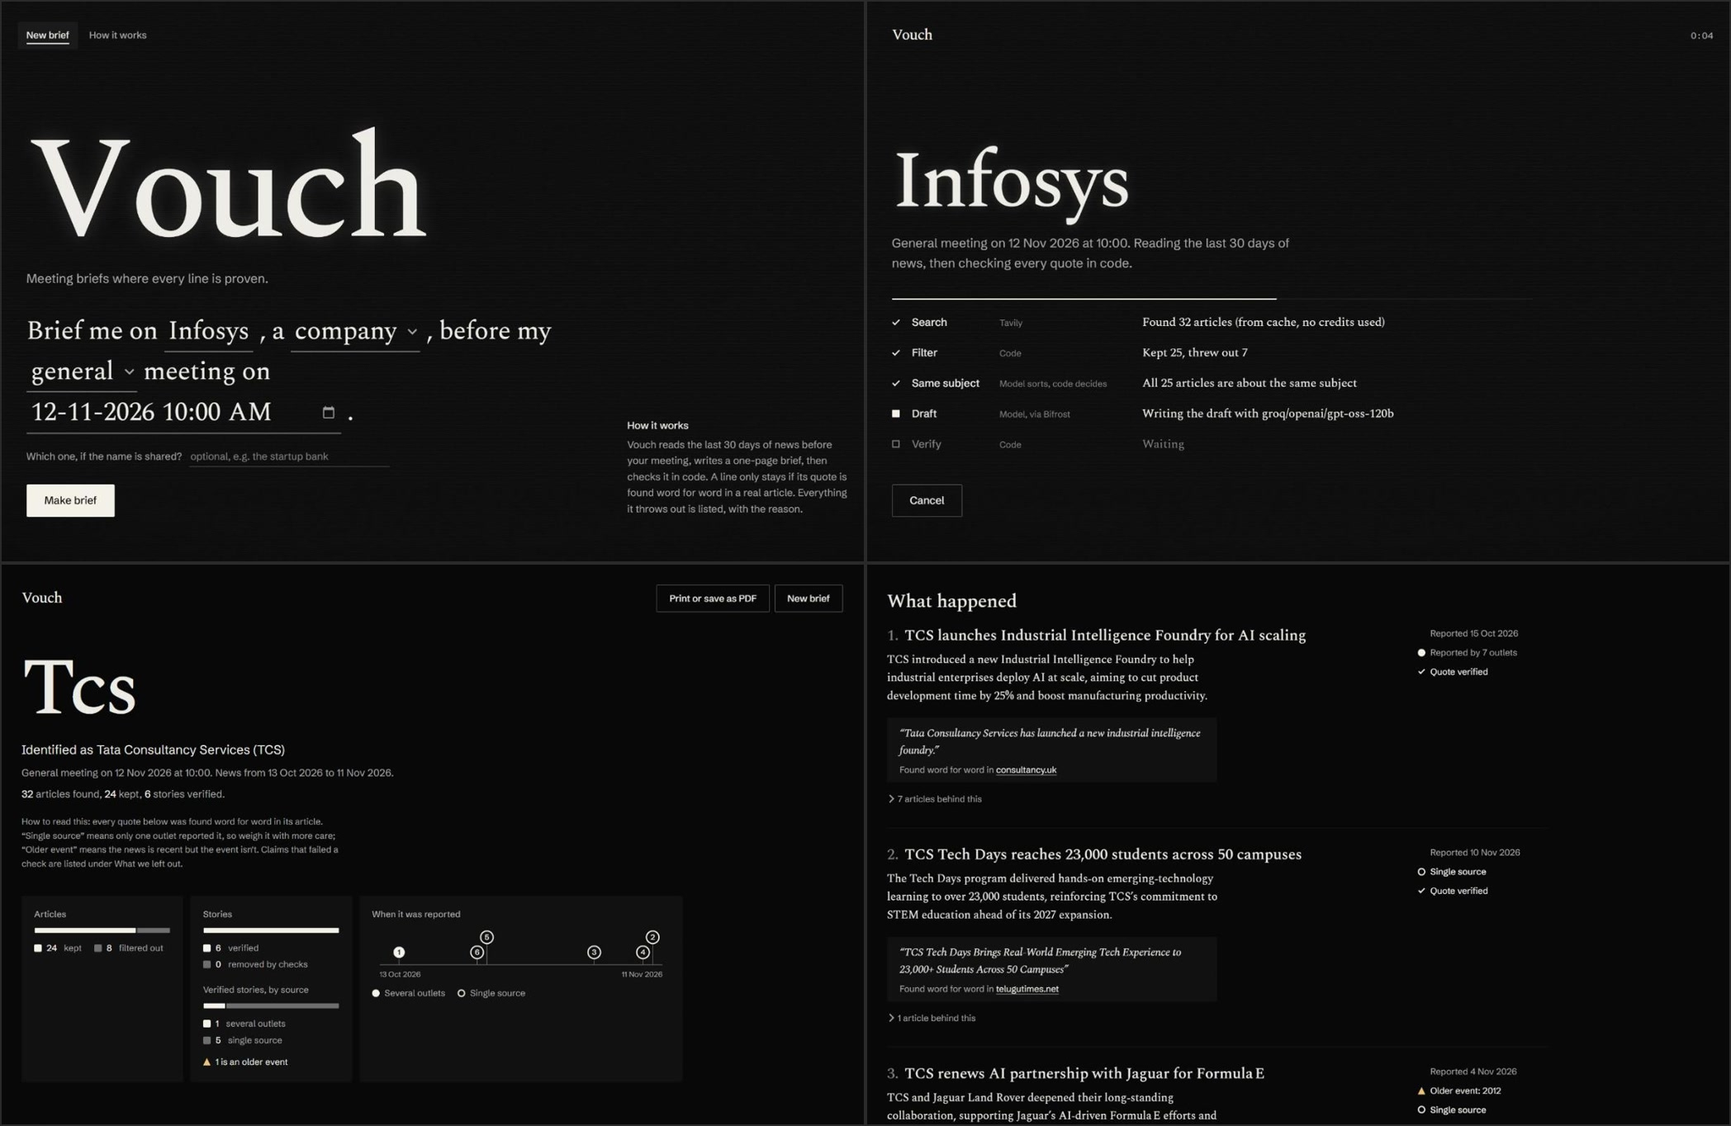
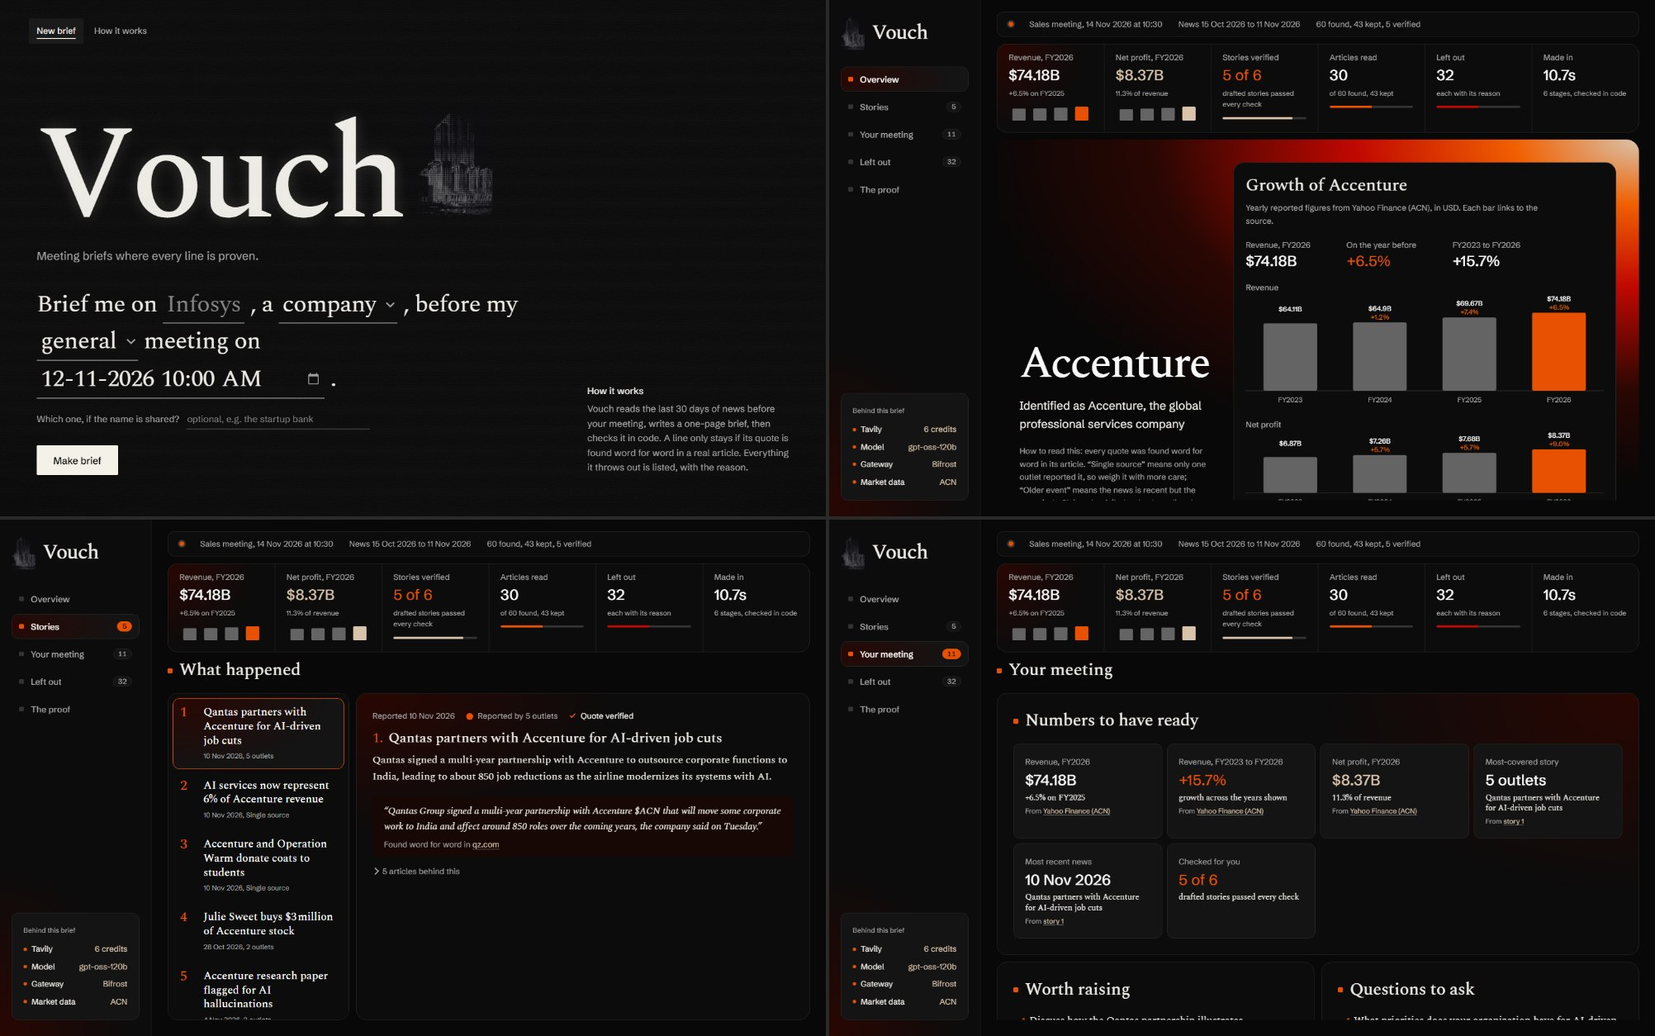
More news per brief, and numbers to have ready for the meeting
Six searches for a company with up to 20 results each, the newest 30
articles read, up to 10 stories with 6 to 8 talking points and questions.
Company names match however they are spelled (JP Morgan, JPMorgan, J.P. Morgan).
The meeting view opens with checked figures to have ready.
New screenshots of the current brief.

diff --git a/app/static/stats.js b/app/static/stats.js
@@ -44,7 +44,7 @@
     [/^never mentions/i, "Never names the subject"],
     [/not a normal web address/i, "Unsafe link"],
     [/^about a different/i, "About a different subject"],
-    [/^not read/i, "Not read: past the 20-article limit"],
+    [/^not read/i, "Not read: past the reading limit"],
     [/quote not found/i, "Quote not found word for word"],
     [/^figure\(s\)/i, "A figure isn't in the sources"],
     [/cites no real article|doesn't exist/i, "Cites no real article"],
@@ -79,10 +79,10 @@
     const passed = Math.max(0, found - filteredOut);
     const { stories } = briefNumbers(b);
     return [
-      { key: "found", label: "Found", value: found, unit: "articles", who: "Tavily, 4 news searches" },
+      { key: "found", label: "Found", value: found, unit: "articles", who: `Tavily, ${counts.searches || 4} news searches` },
       { key: "filtered", label: "Passed the filters", value: passed, unit: "articles", who: "Code rules" },
       { key: "subject", label: "About this subject", value: Math.max(0, passed - setAside), unit: "articles", who: "Model sorts, code decides" },
-      { key: "read", label: "Read by the AI", value: counts.shown_to_model || 0, unit: "articles", who: "The 20 newest" },
+      { key: "read", label: "Read by the AI", value: counts.shown_to_model || 0, unit: "articles", who: "The newest articles" },
       { key: "drafted", label: "Stories drafted", value: stories.drafted, unit: "stories", who: "Model, via Bifrost" },
       { key: "verified", label: "Verified", value: stories.verified, unit: "stories", who: "Code checks every quote" },
     ];
@@ -100,5 +100,39 @@
              first: revenue[0], latest: revenue[revenue.length - 1] };
   }
 
-  root.VouchStats = { POINT_REASON, briefNumbers, emptyMessage, reasonGroups, reasonLabel, funnelSteps, growthSeries };
+  // "Numbers to have ready" for the meeting: picked by code from figures that were already
+  // checked (market data or word-for-word news) and from the verified stories. No AI writes these.
+  function numbersToHave(b) {
+    const out = [];
+    const s = growthSeries(b.growth);
+    if (s) {
+      out.push({ kind: "revenue", year: s.latest.year, value: s.latest.value, currency: s.currency,
+                 change: s.latest.change, source_url: s.latest.source_url, source_name: s.latest.source_name });
+      if (s.revenue.length > 2) {
+        out.push({ kind: "span", from: s.first.year, to: s.latest.year,
+                   change: (s.latest.value - s.first.value) / Math.abs(s.first.value),
+                   source_url: s.latest.source_url, source_name: s.latest.source_name });
+      }
+      const profit = s.profit.find((p) => p.year === s.latest.year);
+      if (profit) {
+        out.push({ kind: "profit", year: profit.year, value: profit.value, currency: profit.currency,
+                   margin: profit.value / s.latest.value, source_url: profit.source_url, source_name: profit.source_name });
+      }
+    }
+    const stories = (b.stories || []).map((st, i) => ({ ...st, n: i + 1 }));
+    if (stories.length) {
+      const top = stories.reduce((a, z) => ((z.outlets || []).length > (a.outlets || []).length ? z : a));
+      if ((top.outlets || []).length > 1) {
+        out.push({ kind: "coverage", story: top.n, headline: top.headline, outlets: top.outlets.length });
+      }
+      const newest = stories.reduce((a, z) => (z.date > a.date ? z : a));
+      out.push({ kind: "latest", story: newest.n, headline: newest.headline, date: newest.date });
+    }
+    const n = briefNumbers(b);
+    if (n.stories.drafted) out.push({ kind: "checked", verified: n.stories.verified, drafted: n.stories.drafted });
+    return out;
+  }
+
+  root.VouchStats = { POINT_REASON, briefNumbers, emptyMessage, reasonGroups, reasonLabel, funnelSteps, growthSeries,
+                      numbersToHave };
 })(typeof window !== "undefined" ? window : globalThis);

diff --git a/app/static/app.js b/app/static/app.js
@@ -282,7 +282,7 @@ function proofPanel(b) {
                        verify: "Verify", growth: "Growth" };
 
   const made = [
-    ["Search", `Tavily, ${plural(c.credits || 0, "credit")}` + (c.cache_hits ? `, ${c.cache_hits} of 4 searches from cache` : "")],
+    ["Search", `Tavily, ${plural(c.credits || 0, "credit")}` + (c.cache_hits ? `, ${c.cache_hits} of ${c.searches || 4} searches from cache` : "")],
     m && m.entity_check_by ? ["Same-subject check", `${m.entity_check_by}, ${m.entity_check_tokens.toLocaleString()} tokens`] : null,
     m ? ["Draft", `${m.served_by}${m.fallback ? " (backup model; the first choice was unavailable)" : ""}, ` +
                   `${(m.prompt_tokens + m.completion_tokens).toLocaleString()} tokens, ${m.seconds}s`] : null,
@@ -427,6 +427,36 @@ function kpiStrip(b) {
          meter(articles.found ? ((b.counts && b.counts.shown_to_model) || 0) / articles.found : 0, "brand")),
     tile("Left out", String(leftOut), "each with its reason", meter(articles.found ? b.ledger.articles.length / articles.found : 0, "deep")),
     tile("Made in", `${b.seconds}s`, `${plural(Object.keys(b.timings || {}).length || 5, "stage")}, checked in code`, null));
+}
+
+// "Numbers to have ready": figures already checked, each with where it came from.
+function numbersCard(b) {
+  const items = VouchStats.numbersToHave(b);
+  if (!items.length) return null;
+  const source = (it) => it.source_url
+    ? h("a", { href: it.source_url, target: "_blank", rel: "noopener", text: it.source_name })
+    : (it.source_name ? it.source_name : null);
+  const story = (n) => h("a", { href: `#story-${n}`, text: `story ${n}` });
+  const tile = (label, value, note, from, tone = "") => h("li", { class: `ready ${tone}` },
+    h("span", { class: "ready-label", text: label }),
+    h("span", { class: "ready-value", text: value }),
+    note ? h("span", { class: "ready-note", text: note }) : null,
+    from ? h("span", { class: "ready-src" }, "From ", from) : null);
+  return h("section", { class: "part ready-card", "aria-labelledby": "ready-title" },
+    h("h3", { id: "ready-title", text: "Numbers to have ready" }),
+    h("ul", { class: "ready-list" }, items.map((it) => {
+      switch (it.kind) {
+        case "revenue": return tile(`Revenue, ${fy(it.year)}`, money(it.value, it.currency),
+                                    it.change != null ? `${pct(it.change)} on ${fy(it.year - 1)}` : "", source(it));
+        case "span": return tile(`Revenue, ${fy(it.from)} to ${fy(it.to)}`, pct(it.change), "growth across the years shown", source(it), "ready-brand");
+        case "profit": return tile(`Net profit, ${fy(it.year)}`, money(it.value, it.currency),
+                                   `${(it.margin * 100).toFixed(1)}% of revenue`, source(it), "ready-sand");
+        case "coverage": return tile("Most-covered story", `${it.outlets} outlets`, it.headline, story(it.story));
+        case "latest": return tile("Most recent news", fmtDate(it.date), it.headline, story(it.story));
+        case "checked": return tile("Checked for you", `${it.verified} of ${it.drafted}`, "drafted stories passed every check", null, "ready-brand");
+        default: return null;
+      }
+    })));
 }
 
 function storyList(b) {
@@ -577,6 +607,7 @@ function renderBrief(b) {
 
   const meetingView = h("section", { class: "ws-view view-meeting", "data-view": "meeting", "aria-labelledby": "meeting-title" },
     h("h3", { id: "meeting-title", class: "view-title", text: "Your meeting" }),
+    numbersCard(b),
     b.talking_points.length || b.open_questions.length
       ? h("div", { class: "two-up" },
           b.talking_points.length ? h("section", { class: "part" }, h("h3", { text: "Worth raising" }), pointList(b.talking_points)) : null,

diff --git a/app/static/styles.css b/app/static/styles.css
@@ -720,6 +720,30 @@ button:disabled { background: #7C879A; cursor: progress; }
   .ws-kpis { grid-template-columns: repeat(2, minmax(0, 1fr)); }
 }
 
+/* "Numbers to have ready": a row of checked figures above the meeting lists. */
+.ready-card {
+  margin: 0 0 var(--space-2); padding: var(--space-4);
+  border: 1px solid var(--color-card-line); border-radius: var(--radius-panel);
+  background: radial-gradient(90% 140% at 100% 0%, var(--color-ember) 0%, var(--color-card) 55%);
+}
+.ready-card > h3 { margin-top: 0; }
+.ready-list {
+  list-style: none; margin: 0; padding: 0;
+  display: grid; grid-template-columns: repeat(auto-fit, minmax(13rem, 1fr)); gap: var(--space-1);
+}
+.ready {
+  min-width: 0; display: grid; align-content: start; gap: var(--space-0);
+  padding: var(--space-3); border-radius: var(--radius-card); background: var(--color-card-2);
+  border: 1px solid var(--color-card-line);
+}
+.ready-label { font-size: var(--fs-small); color: var(--r-text-2); }
+.ready-value { font: var(--fw-medium) var(--fs-card-value)/var(--lh-snug) var(--font-body); color: var(--color-white); }
+.ready-brand .ready-value { color: var(--color-brand); }
+.ready-sand .ready-value { color: var(--color-sand); }
+.ready-note { font: var(--fw-regular) var(--fs-small)/var(--lh-snug) var(--font-display); color: var(--r-text); }
+.ready-src { font-size: var(--fs-tick); color: var(--r-text-2); }
+.ready-src a { color: var(--color-sand); }
+
 /* ---- One motion moment: the charts draw in once ---- */
 @media (prefers-reduced-motion: no-preference) {
   .bar rect { transform-box: fill-box; transform-origin: bottom;
@@ -766,7 +790,7 @@ button:disabled { background: #7C879A; cursor: progress; }
     --r-warning: var(--struck); --r-strike: var(--struck);
     padding: 0; max-width: none;
   }
-  .entry, .analysis, .page-bar, .hero-growth, .ws-side, .ws-status, .ws-kpis, .story-list, .ledger-chips, .panel, .ledger, .print-btn, .sources, .key { display: none !important; }
+  .entry, .analysis, .page-bar, .hero-growth, .ready-card, .ws-side, .ws-status, .ws-kpis, .story-list, .ledger-chips, .panel, .ledger, .print-btn, .sources, .key { display: none !important; }
   .hero { display: block; min-height: 0; padding: 0; background: none; border-radius: 0; }
   .hero h2 { color: var(--r-text); }
   .result { max-width: none; }

diff --git a/app/static/index.html b/app/static/index.html
@@ -13,7 +13,7 @@
 <meta name="theme-color" content="#080808">
 <!-- A brief's own address (/brief/<id>) is the brief page: no search screen, decided before the first paint. -->
 <script>if (location.pathname.indexOf("/brief/") === 0) document.documentElement.classList.add("route-brief");</script>
-<link rel="stylesheet" href="/static/styles.css?v=17">
+<link rel="stylesheet" href="/static/styles.css?v=18">
 </head>
 <body>
 <main>
@@ -123,7 +123,7 @@
   <section id="result" class="result" hidden aria-labelledby="result-title"></section>
 </div>
 </main>
-<script src="/static/stats.js?v=2"></script>
-<script src="/static/app.js?v=16"></script>
+<script src="/static/stats.js?v=3"></script>
+<script src="/static/app.js?v=17"></script>
 </body>
 </html>

diff --git a/tests/test_frontend_stats.py b/tests/test_frontend_stats.py
@@ -29,6 +29,7 @@ process.stdout.write(JSON.stringify({
   funnel: ctx.VouchStats.funnelSteps(brief),
   reasons: ctx.VouchStats.reasonGroups(brief),
   growth: ctx.VouchStats.growthSeries(brief.growth),
+  ready: ctx.VouchStats.numbersToHave(brief),
 }));
 """
 
@@ -121,7 +122,7 @@ class Panels(unittest.TestCase):
     def test_every_reason_is_counted_under_a_readable_label(self):
         reasons = {r["label"]: r["count"] for r in run_stats(self.BRIEF)["reasons"]}
         self.assertEqual(reasons["Not a news article"], 5)
-        self.assertEqual(reasons["Not read: past the 20-article limit"], 4)
+        self.assertEqual(reasons["Not read: past the reading limit"], 4)
         self.assertEqual(reasons["About a different subject"], 1)
         self.assertEqual(reasons["Point not linked to a verified story"], 1)
         self.assertEqual(sum(reasons.values()), 15)
@@ -132,6 +133,26 @@ class Panels(unittest.TestCase):
         self.assertIsNone(g["revenue"][0]["change"])
         self.assertAlmostEqual(g["revenue"][2]["change"], 0.10)
         self.assertEqual((g["first"]["year"], g["latest"]["year"], g["currency"]), (2023, 2025, "INR"))
+
+    def test_numbers_to_have_ready_come_from_checked_figures(self):
+        brief = {**self.BRIEF, "stories": [
+            {**story(1), "headline": "small", "date": "2026-11-01"},
+            {**story(5), "headline": "big", "date": "2026-10-20"},
+            {**story(2), "headline": "newest", "date": "2026-11-09"}]}
+        ready = {r["kind"]: r for r in run_stats(brief)["ready"]}
+        self.assertEqual((ready["revenue"]["year"], ready["revenue"]["value"]), (2025, 110.0))
+        self.assertAlmostEqual(ready["span"]["change"], 110 / 80 - 1)
+        self.assertAlmostEqual(ready["profit"]["margin"], 20 / 110)
+        self.assertEqual((ready["coverage"]["story"], ready["coverage"]["outlets"]), (2, 5))
+        self.assertEqual((ready["latest"]["story"], ready["latest"]["date"]), (3, "2026-11-09"))
+        self.assertEqual((ready["checked"]["verified"], ready["checked"]["drafted"]), (3, 4))
+
+    def test_no_growth_no_invented_figures(self):
+        brief = {**self.BRIEF, "growth": None, "stories": [{**story(1), "headline": "only", "date": "2026-11-01"}]}
+        kinds = [r["kind"] for r in run_stats(brief)["ready"]]
+        self.assertNotIn("revenue", kinds)
+        self.assertNotIn("coverage", kinds)          # one outlet is not "most covered"
+        self.assertIn("latest", kinds)
 
     def test_one_year_is_not_growth(self):
         brief = {**self.BRIEF, "growth": {"figures": [{"year": 2025, "metric": "revenue", "value": 1.0, "currency": "USD"}]}}

diff --git a/vouch/draft.py b/vouch/draft.py
@@ -8,8 +8,8 @@ from datetime import date
 from vouch.filters import Kept
 from vouch.llm import CallInfo, chat_json
 
-MAX_ARTICLES = 20      # keeps the prompt inside free-tier token limits
-SNIPPET_CHARS = 700    # per article
+MAX_ARTICLES = 30      # the newest 30; snippets are shorter so the prompt stays inside free-tier limits
+SNIPPET_CHARS = 600    # per article
 
 GOALS = {
     "sales": "a sales conversation: find needs, priorities and timing",
@@ -20,7 +20,9 @@ GOALS = {
     "general": "a general introductory meeting",
 }
 
-SYSTEM = """You prepare one-page pre-meeting briefings from news articles.
+SYSTEM = """You prepare thorough pre-meeting briefings from news articles.
+Cover every distinct event the articles report: a reader should not miss anything
+important that happened to this subject in the window.
 Rules you must follow:
 - Use ONLY the numbered articles given. Never add facts from your own knowledge.
 - Group articles that report the same event into ONE story, and list EVERY
@@ -57,8 +59,10 @@ def build_prompt(name: str, kind: str, goal: str, meeting_day: date,
         f"Subject: {name} ({kind})\n"
         f"Meeting date: {meeting_day}\n"
         f"Meeting purpose: {GOALS.get(goal, GOALS['general'])}\n\n"
-        f"Write at most 6 stories (most important first), 3-4 talking points and "
-        f"3-4 open questions tailored to the meeting purpose.\n\n"
+        f"Write one story per distinct event, most important first: aim for 8-10 stories when "
+        f"the articles report that many different events (fewer only if they don't). Then "
+        f"6-8 talking points and 6-8 open questions tailored to the meeting purpose, spread "
+        f"across different stories; every one must list in story_ids the stories it rests on.\n\n"
         f"Reply in this JSON shape:\n{SCHEMA}\n\n"
         f"ARTICLES:\n" + "\n\n".join(lines)
     )

diff --git a/vouch/research.py b/vouch/research.py
@@ -22,11 +22,14 @@ ANGLES = {
         "launches": "{name} launches new product OR announces",
         "people": "{name} appoints OR hires OR CEO OR executive",
         "deals": "{name} funding OR acquisition OR partnership OR deal",
+        "results": "{name} results OR revenue OR earnings OR profit",
+        "strategy": "{name} strategy OR expansion OR customers OR AI",
     },
     "person": {
         "news": '"{name}" news',
         "role": '"{name}" joins OR appointed OR named OR steps down',
         "public": '"{name}" interview OR talk OR podcast OR said',
+        "ventures": '"{name}" invests OR backs OR board OR founded',
     },
 }
 
@@ -79,7 +82,7 @@ def window_for(meeting_at: datetime, today: date | None = None) -> tuple[date, d
     return start, min(meeting_at.date(), today)
 
 
-def search(name: str, kind: str, meeting_at: datetime, max_results: int = 8,
+def search(name: str, kind: str, meeting_at: datetime, max_results: int = 20,
            about: str = "") -> SearchRun:
     if kind not in ANGLES:
         raise ValueError(f"kind must be one of {list(ANGLES)}, got {kind!r}")
@@ -97,7 +100,7 @@ def search(name: str, kind: str, meeting_at: datetime, max_results: int = 8,
             "query": template.format(name=f"{name} ({about})" if about else name),
             "topic": "news",
             "search_depth": "basic",   # 1 credit; "advanced" costs 2
-            "max_results": max_results,
+            "max_results": max_results,      # up to 20 results still cost 1 credit      # up to 20 results still cost 1 credit
             "start_date": start.isoformat(),
             "end_date": end.isoformat(),
         }

diff --git a/vouch/filters.py b/vouch/filters.py
@@ -71,9 +71,25 @@ def mentions(name: str, text: str) -> bool:
     """True if the full name appears as whole words (case-insensitive).
 
     Whole words matters: 'Meta' must not match 'metadata'.
+    Spacing and dots between the words don't: news writes "JPMorgan", "J.P. Morgan" and
+    "JP Morgan" for the same bank (a brief on "JP Morgan" lost 23 of 32 articles to this).
     """
-    pattern = r"(?<!\w)" + re.escape(name.strip()) + r"(?!\w)"
-    return re.search(pattern, text, flags=re.IGNORECASE) is not None
+    return re.search(name_pattern(name), text, flags=re.IGNORECASE) is not None
+
+
+def name_pattern(name: str) -> str:
+    """Whole-word pattern for a name. Words may be joined by spaces, dots or hyphens, or
+    run together; short initials ("JP", "TCS") may carry dots ("J.P.", "T.C.S.")."""
+    parts = []
+    for word in name.split():
+        letters = word.replace(".", "")
+        if letters.isalpha() and len(letters) <= 4 and word.upper() == word:
+            parts.append(r"\.?".join(re.escape(ch) for ch in letters) + r"\.?")
+        else:
+            parts.append(re.escape(word))
+    if not parts:
+        return r"(?!)"                                  # an empty name matches nothing
+    return r"(?<!\w)" + r"[\s.\-]*".join(parts) + r"(?!\w)"
 
 
 def names_subject(run: SearchRun, source: Source) -> bool:

diff --git a/tests/test_pipeline.py b/tests/test_pipeline.py
@@ -35,16 +35,16 @@ def fake_draft(name, kind, goal, day, kept):
 
 class NothingDroppedSilently(unittest.TestCase):
     def test_articles_past_the_limit_are_recorded(self):
-        with mock.patch.object(pipeline, "search", return_value=fake_run(25)), \
+        with mock.patch.object(pipeline, "search", return_value=fake_run(MAX_ARTICLES + 5)), \
              mock.patch.object(pipeline, "resolve", side_effect=fake_resolve), \
              mock.patch.object(pipeline, "draft", side_effect=fake_draft):
             b = pipeline.make_brief("Acme", "company", datetime(2026, 11, 1))
         self.assertEqual(b.articles_shown_to_model, MAX_ARTICLES)
-        self.assertEqual(len(b.not_read), 25 - MAX_ARTICLES)
+        self.assertEqual(len(b.not_read), 5)
         # every kept article is either shown to the model or recorded as not read
         shown = {k.source.url for k in b.draft_articles}
         missing = {k.source.url for k in b.not_read}
-        self.assertEqual(shown | missing, {s.url for s in fake_run(25).sources})
+        self.assertEqual(shown | missing, {s.url for s in fake_run(MAX_ARTICLES + 5).sources})
         self.assertFalse(shown & missing)
 
 

diff --git a/tests/test_filters.py b/tests/test_filters.py
@@ -41,6 +41,23 @@ class Mentions(unittest.TestCase):
         self.assertTrue(mentions("Infosys", "INFOSYS posts Q2 results"))
 
 
+class NameSpellings(unittest.TestCase):
+    def test_spacing_and_dots_between_words_dont_matter(self):
+        for headline in ("JPMorgan raises its forecast", "J.P. Morgan raises its forecast",
+                         "JP Morgan raises its forecast", "JP-Morgan raises its forecast"):
+            self.assertTrue(mentions("JP Morgan", headline), headline)
+
+    def test_initials_may_carry_dots(self):
+        self.assertTrue(mentions("TCS", "T.C.S. wins a deal"))
+        self.assertTrue(mentions("TCS", "TCS wins a deal"))
+
+    def test_still_whole_words_only(self):
+        self.assertFalse(mentions("JP Morgan", "JP Morganite gemstones"))
+        self.assertFalse(mentions("Meta", "metadata standards"))
+        self.assertFalse(mentions("TCS", "ATCS reports"))
+        self.assertFalse(mentions("", "anything"))
+
+
 class NormaliseUrl(unittest.TestCase):
     def test_same_page_variants(self):
         a = normalise_url("https://www.example.com/story/")

diff --git a/app/serialize.py b/app/serialize.py
@@ -2,6 +2,7 @@
 from vouch.draft import MAX_ARTICLES
 from vouch.filters import is_web_link
 from vouch.pipeline import Brief
+from vouch.research import ANGLES
 
 
 def _link(url: str) -> str | None:
@@ -44,7 +45,8 @@ def brief_to_dict(b: Brief) -> dict:
         "counts": {"found": len(b.run.sources),
                    "kept": len(b.entity.kept) if b.entity and not b.entity.needs_choice else len(b.filtered.kept),
                    "shown_to_model": b.articles_shown_to_model, "verified": len(c.stories),
-                   "credits": b.run.credits_used, "cache_hits": b.run.cache_hits},
+                   "credits": b.run.credits_used, "cache_hits": b.run.cache_hits,
+                   "searches": len(ANGLES.get(b.kind, {}))},
         "model": None if b.model_call is None else {
             "served_by": b.model_call.served_by, "fallback": b.model_call.used_fallback,
             "prompt_tokens": b.model_call.prompt_tokens,

diff --git a/tests/test_research.py b/tests/test_research.py
@@ -64,8 +64,9 @@ class PartialFailure(unittest.TestCase):
              mock.patch.object(research.cache, "put"):
             run = research.search("Acme", "company", datetime(2026, 11, 14))
         self.assertEqual([a for a, _ in run.failed], ["deals"])
-        self.assertEqual(len(run.sources), 3)
-        self.assertEqual(run.credits_used, 3)
+        others = len(research.ANGLES["company"]) - 1
+        self.assertEqual(len(run.sources), others)
+        self.assertEqual(run.credits_used, others)
 
     def test_every_search_failing_raises_the_real_error(self):
         from unittest import mock
